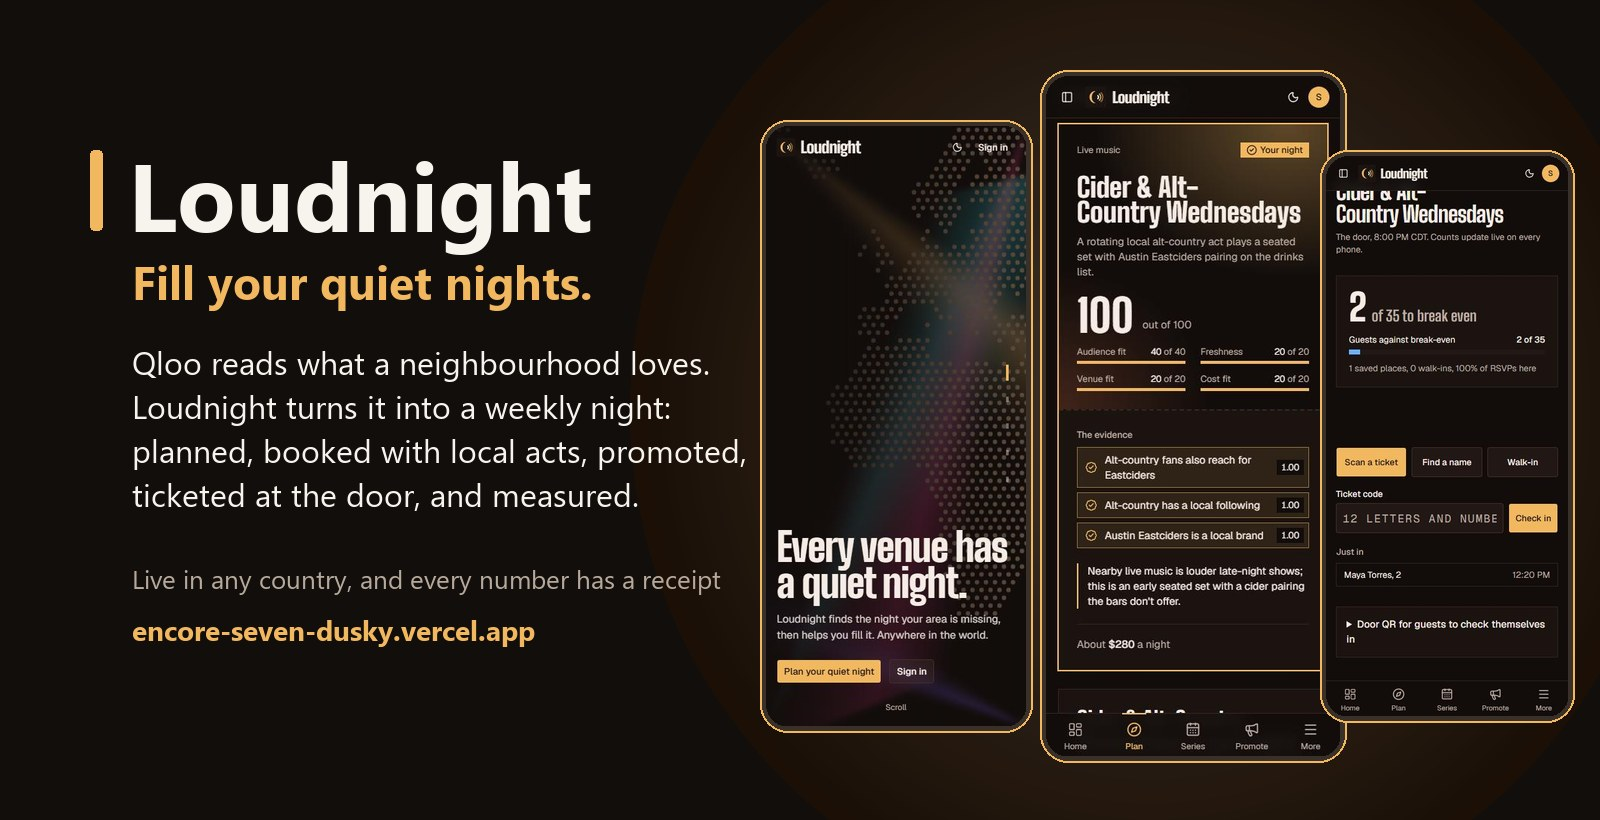
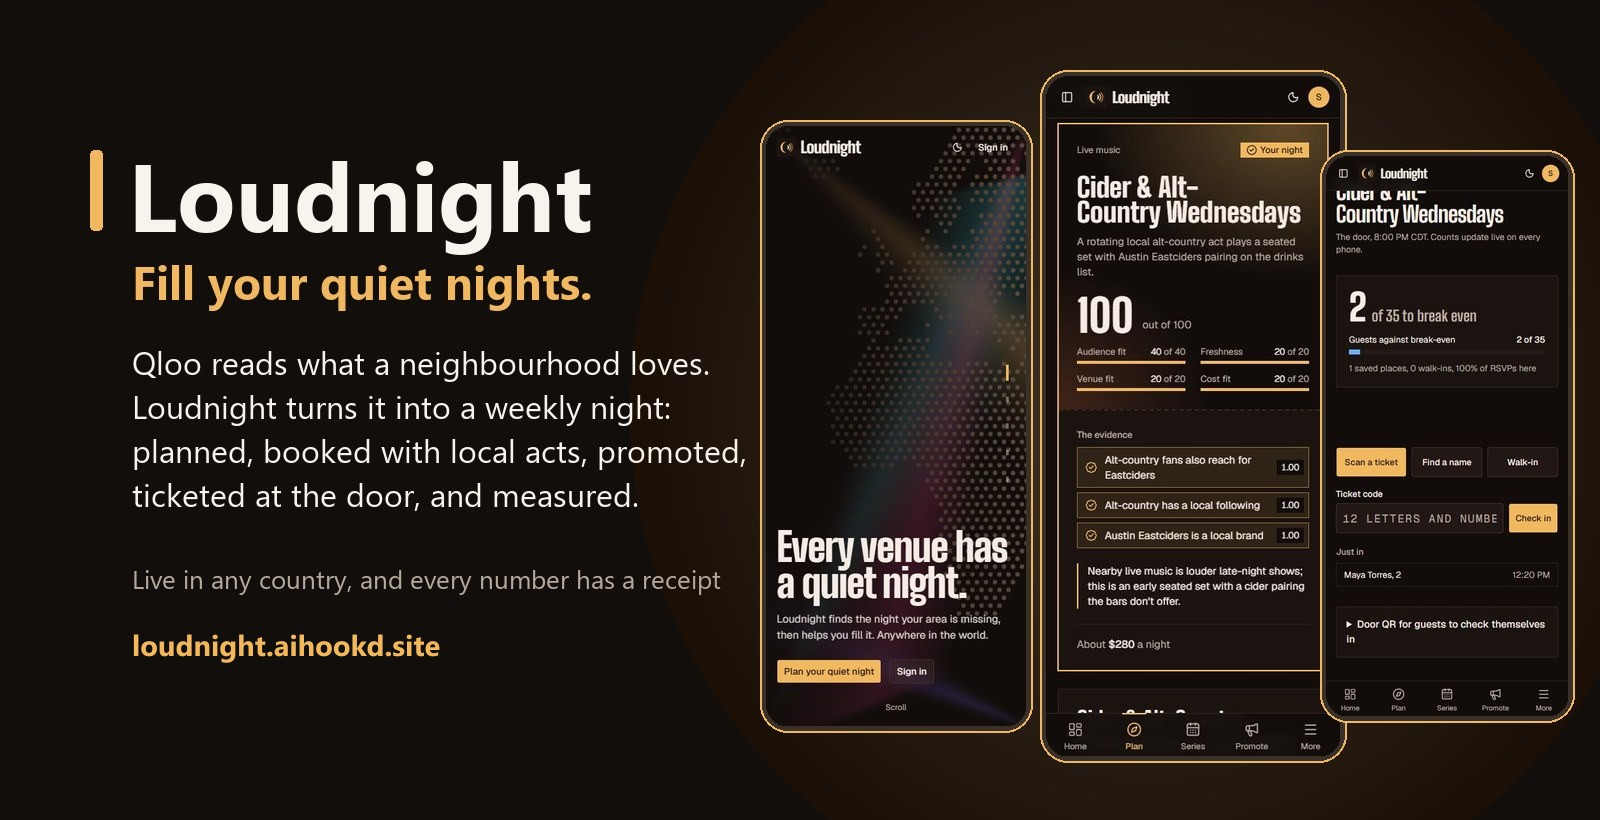
The hero image and cover show loudnight.aihookd.site; the submission gallery and story

Changed region(s): [[0.0625, 0.7622, 0.3438, 0.8232]]

diff --git a/src/config/integrations.ts b/src/config/integrations.ts
@@ -42,7 +42,7 @@ export const TICKETMASTER = {
 
 // Open data for performers Qloo knows few of. Both ask callers to name themselves; MusicBrainz allows one call a second.
 export const OPEN_DATA = {
-  userAgent: "Loudnight/0.1 (https://encore-seven-dusky.vercel.app)",
+  userAgent: "Loudnight/0.1 (https://loudnight.aihookd.site)",
   cacheTtlDays: 7,
   wikidata: { url: "https://query.wikidata.org/sparql", timeoutMs: 25_000 },
   musicbrainz: { url: "https://musicbrainz.org/ws/2", timeoutMs: 10_000 },

diff --git a/docs/submission/about-the-project.md b/docs/submission/about-the-project.md
@@ -1,0 +1,57 @@
+## Inspiration
+
+Walk past almost any bar, restaurant or club on a Tuesday and it is half empty. Rent, staff and stock cost the same as on a Saturday. Owners know they should run something, but they guess what to run, copy the place down the street, or ask a chatbot that gives every postcode the same answer: trivia, karaoke, open mic.
+
+Qloo already knows what the people around any address love. We wanted to put that knowledge in the hands of the person who needs it most: the owner with an empty room on a weeknight.
+
+## What it does
+
+Loudnight takes a venue from an empty night to a full room, in one app.
+
+1. **Set up in about two minutes.** Any venue, in any country and currency: a bar, cafe, restaurant, club, hotel or event space. The owner enters the address, the quiet nights, what the room can host, the performer budget and how many guests they need to break even.
+2. **Plan the night with Qloo.** In about three minutes, Loudnight reads what people nearby love across eleven areas of taste, checks what nearby venues and events already offer, and suggests three weekly nights that nobody nearby runs. Each night gets a score out of 100, and **every number can be tapped to open the exact Qloo answer it came from.** A plain chatbot answer sits beside it so the difference is easy to see.
+3. **Turn it into a series.** The chosen night becomes four dated weeks, each with its own twist.
+4. **Book performers.** Local acts whose fans match the night, local first, each labelled for the budget, with photos, Instagram and Spotify links, listener counts and a booking message ready to send. Stars the venue could never afford are left out.
+5. **Promote.** Posters, stories, banners and short videos with the booked acts' photos and a ticket QR code, plus captions for each network and Spanish versions.
+6. **Take bookings.** A public event page where guests reserve a place without an account and get a ticket for their whole party.
+7. **Run the door.** Staff scan tickets, find a name or count walk-ins on the website or in the **Loudnight Door app** for Android. A ticket works once, only on the night, for the number of people it was booked for. Every phone at the door shows the same live count against break-even.
+8. **See what worked.** Results show who came, each night against break-even, and each night's takings.
+
+Owners invite managers and door staff by email. One person can hold different roles at different venues and switch between them in the app. An administrator console handles venues, people, suspensions, a full change history and a read-only view of any user's screens for support.
+
+## How we built it
+
+- **Qloo is the engine.** About 35 Qloo calls go into each plan, across five of the six planning steps: the neighbourhood's tastes, who the crowd is (demographics), what is already on within 2 km, whether two tastes overlap locally (for example alt-country fans and a local cider), and which artists fit the night.
+- **An agent with a fixed path.** Claude plans in six steps that stream live on screen: scout, read the neighbourhood, find the gap, invent the nights, score, plan. Claude chooses its tools inside each step, never the order of the steps, so every run is fast and predictable.
+- **No number without a receipt.** Every Qloo answer is saved with the question that produced it. Every number on screen points to that saved answer, and the database itself refuses any number that is not in it. The model proposes the four score inputs, and the database calculates the total: 40 x audience fit + 20 x novelty + 20 x venue fit + 20 x cost fit.
+- **More sources where Qloo is thin.** Google Places and Ticketmaster for what is nearby, Wikidata and MusicBrainz for local performers, and Deezer and iTunes for their photos.
+- **Built to be trusted.** Next.js 16 and React 19 on Vercel, Supabase Postgres with row level security so each venue's data stays private, live updates for the door, and an Expo React Native door app on the same API. More than 500 automated tests run on every change, plus database tests for every role.
+
+## Challenges I ran into
+
+- **Popularity in Qloo is global, not local.** A star in one country can look like a small, bookable act. We capped popularity and added home country checks so venues see their own country's acts first.
+- **Local performers are thin outside the biggest markets.** Near Nairobi, Qloo had few local artists and no comedians, so we added open data and said so on each card.
+- **Stopping the model from inventing numbers.** Prompts were not enough. I moved the rule into the database so a made-up number cannot be saved at all.
+- **Keeping a long agent run fast.** Each step is its own server call, and answers are cached and reused for a week, so no request comes close to a time limit.
+- **A door that cannot be faked.** Guests could once check themselves in. Now only the venue's team can, only on the night, and each ticket works once.
+
+## Accomplishments that I'm proud of
+
+- The whole journey works end to end on a phone: address, plan, series, performers, ads, event page, ticket, door app, live count and results.
+- In our Austin test, the top suggestion, Cider & Alt-Country Wednesdays, scored 100. Two local bands were booked, a guest reserved on one phone, the ticket was scanned on a second, and the door count on a third went from 0 to 2 of 35 without refreshing.
+- Every Qloo number on screen opens its receipt.
+- It works in any country, currency and time zone.
+
+## What we learned
+
+- Taste data is most valuable when it helps a business decide what to do, not just a person decide what to watch.
+- Different neighbourhoods really do love different things. East Austin leaned alt-country and blues, and Williamsburg leaned indie and experimental.
+- Trust has to be built into the data, not just the prompt.
+
+## What's next for Loudnight
+
+- Launch with venues in Austin, New York, Chicago, London and Berlin.
+- The door app in the App Store and Google Play.
+- Paid tickets and payouts to venues, with card payments and mobile money such as M-Pesa.
+- A learning loop where each night's turnout decides the next one: keep it, change it or replace it.
+- Pricing: free to try, $49 a month for a venue, $199 a month for groups of up to five venues.
